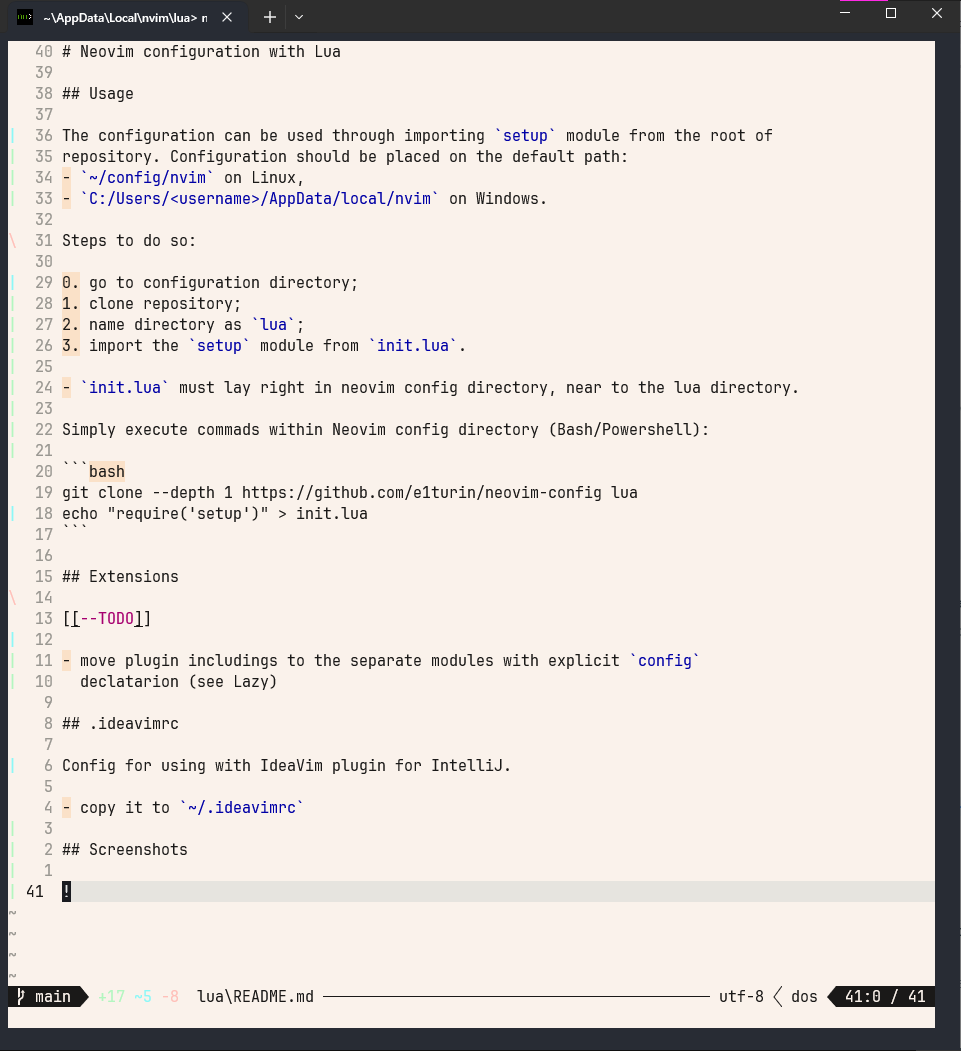
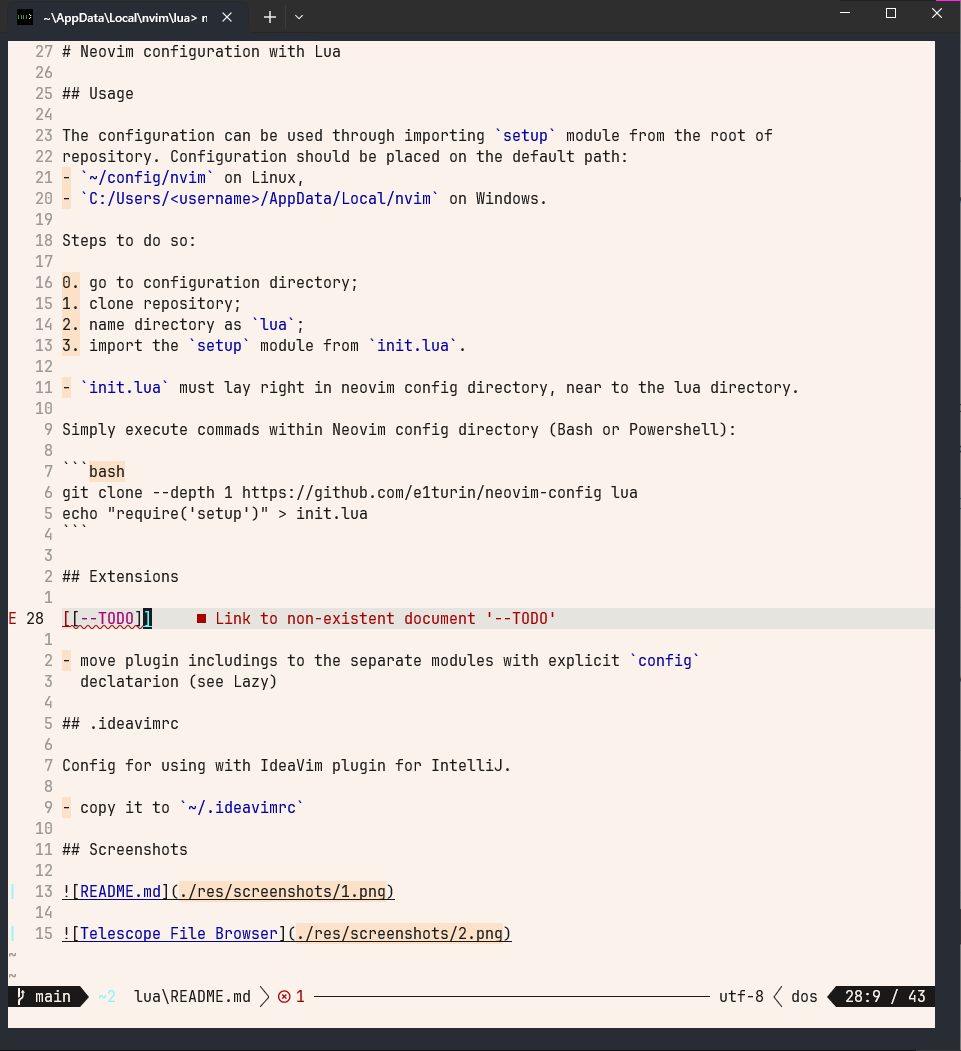
Enhance README.md

diff --git a/README.md b/README.md
@@ -38,6 +38,6 @@ Config for using with IdeaVim plugin for IntelliJ.
 
 ## Screenshots
 
-![](./res/screenshots/1.png)
+![README.md](./res/screenshots/1.png)
 
-![](./res/screenshots/2.png)
+![Telescope File Browser](./res/screenshots/2.png)
